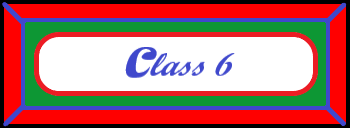
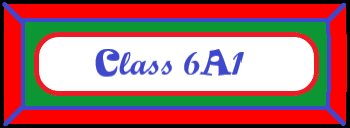
sua loi va 1 so thu

Changed region(s): [[0.2571, 0.3438, 0.7143, 0.625], [0.8286, 0.25, 0.9143, 0.7188]]

diff --git a/core/src/main/java/spst/com/Screen/Master.java b/core/src/main/java/spst/com/Screen/Master.java
@@ -1359,6 +1359,10 @@ public class Master implements Screen {
                     }
                     if(actorBlock instanceof MordernDoor
                         || actorBlock instanceof Restaurant
+                        || actorBlock instanceof School
+                        || actorBlock instanceof Bank
+                        || actorBlock instanceof NguoiDonRac
+                        || actorBlock instanceof NguoiTrongCay
                         || actorBlock instanceof ScienceCenter
                         || actorBlock instanceof FactoryCenter
                         || actorBlock instanceof HotelCenter
@@ -2092,14 +2096,9 @@ public class Master implements Screen {
         racTroiSong();
         tinhThangThua();
         batTatNutMoVaXuLyTrongNutMo();
-        Timer.schedule(new Timer.Task() {
-            @Override
-            public void run() {
-                if(whatActionIfClickMouse.equals("DatSan")){
-                    taoMoDatKhoi();
-                }
-            }
-        },0);
+        if(whatActionIfClickMouse.equals("DatSan")){
+            taoMoDatKhoi();
+        }
         OrthographicCamera c = (OrthographicCamera) stage.getViewport().getCamera();
         if(c.zoom == 1f) {
             if ((float) Gdx.graphics.getWidth() / 2 - player.getWidth() / 2 <= player.getX() && player.getX() <= (float) (WINDOW_WIDTH - Gdx.graphics.getWidth() / 2) - player.getWidth() / 2) {
@@ -2364,15 +2363,19 @@ public class Master implements Screen {
                 if(isCanDao){
                     //BuyDirt a = new BuyDirt(x, y,stage);
                     //a.setZIndex(stage.hit(x, y, true).getZIndex()+1);
+                    MyActor myActor = (MyActor) stage.hit(x,y,true);
                     try {
-                        MyActor myActor = (MyActor) stage.hit(x,y,true);
                         roadArray.removeValue(myActor.getBound(),true);
-                        reArray.removeValue(myActor,true);
+                        roads.removeValue(myActor,true);
                         myActor.remove();
                         if(nhiemvu3== 2){
                             nhiemvu3= 77;
                             GameState.money += 200;
                         }
+                    }catch (Exception ignored){
+                    }
+                    try {
+                        reArray.removeValue(myActor,true);
                     }catch (Exception ignored){
                     }
                     MDirt.setPosition(-32456,-3456889);
@@ -2682,6 +2685,12 @@ public class Master implements Screen {
         chu3.toFront();
         stage.draw();
 //        for(Waste a : wastes){
+//            shapeRenderer.begin(ShapeRenderer.ShapeType.Line);
+//            shapeRenderer.setColor(Color.RED);
+//            shapeRenderer.rect(a.getBound().getX()-(stage.getCamera().position.x-Gdx.graphics.getWidth()/2f), a.getBound().getY()-(stage.getCamera().position.y-Gdx.graphics.getHeight()/2f), a.getBound().getWidth(), a.getBound().getHeight());
+//            shapeRenderer.end();
+//        }
+//        for(MyActor a : roads){
 //            shapeRenderer.begin(ShapeRenderer.ShapeType.Line);
 //            shapeRenderer.setColor(Color.RED);
 //            shapeRenderer.rect(a.getBound().getX()-(stage.getCamera().position.x-Gdx.graphics.getWidth()/2f), a.getBound().getY()-(stage.getCamera().position.y-Gdx.graphics.getHeight()/2f), a.getBound().getWidth(), a.getBound().getHeight());
@@ -3759,18 +3768,15 @@ public class Master implements Screen {
 
         for (int i = -1; i < 38; i++) {
             RoadWay roadWayV = new RoadWay(i * 32, 800 / 2f - 48, stage, true);
-            roads.add(roadWayV);
             createCrossWalk(i, i * 32, 800 / 2f - 48, true);
             if (i == 9) {
                 for (int j = -1; j < 31; j++) {
                     RoadWay roadWay = new RoadWay(i * 32, 800 / 2f - 48 - (j + 2) * 32, stage, false);
-                    roads.add(roadWay);
                     createCrossWalk(j, i * 32, 800 / 2f - 48 - (j + 2) * 32, false);
                 }
             } else if (i == 21) {
                 for (int j = -1; j < 31; j++) {
                     RoadWay roadWay = new RoadWay(i * 32, 800 / 2f + 48 + (j + 1) * 32, stage, false);
-                    roads.add(roadWay);
                     createCrossWalk(j, i * 32, 800 / 2f + 48 + (j + 1) * 32, false);
                 }
             }
@@ -3794,23 +3800,14 @@ public class Master implements Screen {
         Corner corner = new Corner(21 * 32, 800 / 2f + 48 - 32, stage, "DR");
         BlankRoad blankRoad = new BlankRoad(21 * 32 + 32, 800 / 2f + 48 - 32, stage);
         Corner corner12 = new Corner(21 * 32 + 32 * 2, 800 / 2f + 48 - 32, stage, "DL");
-        roads.add(corner);
-        roads.add(blankRoad);
-        roads.add(corner12);
 
         Corner corner2 = new Corner(9 * 32, 800 / 2f - 48 - 0, stage, "UR");
         BlankRoad blankRoad2 = new BlankRoad(9 * 32 + 32, 800 / 2f - 48 - 0, stage);
         Corner corner22 = new Corner(9 * 32 + 32 * 2, 800 / 2f - 48 - 0, stage, "UL");
-        roads.add(corner2);
-        roads.add(blankRoad2);
-        roads.add(corner22);
 
         Corner corner3 = new Corner(25 * 32, 800 / 2f - 48 - 0, stage, "UR");
         BlankRoad blankRoad3 = new BlankRoad(25 * 32 + 32, 800 / 2f - 48 - 0, stage);
         Corner corner32 = new Corner(25 * 32 + 32 * 2, 800 / 2f - 48 - 0, stage, "UL");
-        roads.add(corner3);
-        roads.add(blankRoad3);
-        roads.add(corner32);
 
 //        CornerPool cornerPool = new CornerPool(32*5, 800 - 32 * 3, stage, "UL");
 //        CornerPool cornerPool2 = new CornerPool(32 * 15, 800 - 32 * 3, stage, "UR");
@@ -4183,7 +4180,7 @@ public class Master implements Screen {
                 MCanhRoad.toFront();
                 thongTinDatCanhRoad=thongTinMode;
                 if(Gdx.input.isKeyJustPressed(Input.Keys.R)){
-                    MCanhRoad.setRotation(MCanhRoad.getRotation()+90);
+                    MCanhRoad.rotateBy(90);
                 }
             }
             case ViaHe -> {
@@ -4436,7 +4433,6 @@ public class Master implements Screen {
     private void createCrossWalk(int e, float x, float y, boolean isHorizontal) {
         if (e % 6 == 0) {
             CrossWalk crossWalk = new CrossWalk(x, y, stage, isHorizontal);
-            roads.add(crossWalk);
         }
     }
 
@@ -4819,7 +4815,6 @@ public class Master implements Screen {
 
     @Override
     public void dispose() {
-        nen.stop();
         batch.dispose();
     }
 }

diff --git a/core/src/main/java/spst/com/Screen/SchoolScreen.java b/core/src/main/java/spst/com/Screen/SchoolScreen.java
@@ -408,6 +408,41 @@ public class SchoolScreen implements Screen {
                     layout4.setText(game.font3, "Viêm họng");
                     layout5.setText(game.font3, "Bệnh tim mạch");
                     cauTraLoiDung = 'b';
+                } case 16 -> {
+                    layout.setText(game.font3, "Trong không khí ô nhiễm, tỉ lệ khí CO₂ tăng từ 0,04% lên 0,4%. So với mức bình thường, CO₂ đã tăng:");
+                    layout2.setText(game.font3, "1 lần");
+                    layout3.setText(game.font3, "5 lần");
+                    layout4.setText(game.font3, "10 lần");
+                    layout5.setText(game.font3, "100 lần");
+                    cauTraLoiDung = 'c';
+                } case 17 -> {
+                    layout.setText(game.font3, "Khi ánh sáng mặt trời mạnh, phản ứng tạo ozon mặt đất xảy ra nhiều hơn vì:");
+                    layout2.setText(game.font3, "Ánh sáng phân hủy CO₂");
+                    layout3.setText(game.font3, "Ánh sáng kích hoạt NO₂ tạo O");
+                    layout4.setText(game.font3, "O₂ chuyển hóa thành O₃ trực tiếp");
+                    layout5.setText(game.font3, "Bụi phản ứng với ánh sáng");
+                    cauTraLoiDung = 'b';
+                } case 18 -> {
+                    layout.setText(game.font3, "Khi không khí bị nghịch nhiệt, lớp không khí lạnh nằm ở:");
+                    layout2.setText(game.font3, "Trên cao, giữ khí nóng ở dưới");
+                    layout3.setText(game.font3, "Dưới thấp, giữ khí nóng ở trên");
+                    layout4.setText(game.font3, "Giữa 2 lớp mây");
+                    layout5.setText(game.font3, "Giữa các lớp ozon");
+                    cauTraLoiDung = 'b';
+                } case 19 -> {
+                    layout.setText(game.font3, "Phản ứng tạo ozon (O₃) ở tầng mặt đất là phản ứng:");
+                    layout2.setText(game.font3, "Trung hòa");
+                    layout3.setText(game.font3, "Phản ứng oxi hóa quang hóa");
+                    layout4.setText(game.font3, "Phản ứng nhiệt phân");
+                    layout5.setText(game.font3, "Phản ứng trao đổi ion");
+                    cauTraLoiDung = 'b';
+                } case 20 -> {
+                    layout.setText(game.font3, "Hiện tượng nào sau đây là kết quả của ô nhiễm không khí và khí thải SO₂");
+                    layout2.setText(game.font3, "Mưa axit");
+                    layout3.setText(game.font3, "Sương muối");
+                    layout4.setText(game.font3, "Cát bụi đỏ");
+                    layout5.setText(game.font3, "Cực quang");
+                    cauTraLoiDung = 'a';
                 }
             }
         }else{
@@ -530,6 +565,41 @@ public class SchoolScreen implements Screen {
                     layout4.setText(game.font3, "Sự dư thừa chất dinh dưỡng (N và P) từ phân bón, nước thải");
                     layout5.setText(game.font3, "Sự thay đổi mực nước tự nhiên do băng tan");
                     cauTraLoiDung = 'b';
+                } case 16 -> {
+                    layout.setText(game.font3, "Để giảm NO₂ từ khí thải xe, người ta sử dụng chất xúc tác chứa:");
+                    layout2.setText(game.font3, "Sự tăng lượng khí CO₂ trong không khí");
+                    layout3.setText(game.font3, "Sự tích tụ chất thải rắn từ công nghiệp");
+                    layout4.setText(game.font3, "Sự dư thừa chất dinh dưỡng (N và P) từ phân bón, nước thải");
+                    layout5.setText(game.font3, "Sự thay đổi mực nước tự nhiên do băng tan");
+                    cauTraLoiDung = 'b';
+                } case 17 -> {
+                    layout.setText(game.font3, "Trong các khí gồm CO, NO₂ và SO, nào có thể gây mưa axit khi phản ứng với nước?");
+                    layout2.setText(game.font3, "CO");
+                    layout3.setText(game.font3, "NO₂ và SO₂");
+                    layout4.setText(game.font3, "CO và NO₂");
+                    layout5.setText(game.font3, "Chỉ NO₂");
+                    cauTraLoiDung = 'b';
+                } case 18 -> {
+                    layout.setText(game.font3, "Vì sao khí CO rất nguy hiểm dù không có mùi và không màu?");
+                    layout2.setText(game.font3, "Nó làm máu đông");
+                    layout3.setText(game.font3, "Nó làm giảm oxy máu bằng cách gắn vào hemoglobin");
+                    layout4.setText(game.font3, "Nó phá hủy phổi");
+                    layout5.setText(game.font3, "Nó gây đau đầu ngay khi hít");
+                    cauTraLoiDung = 'b';
+                } case 19 -> {
+                    layout.setText(game.font3, "Chất nào sau đây không gây mưa axit dù có trong không khí ô nhiễm?");
+                    layout2.setText(game.font3, "SO₂");
+                    layout3.setText(game.font3, "NO₂");
+                    layout4.setText(game.font3, "CO");
+                    layout5.setText(game.font3, "NH₃");
+                    cauTraLoiDung = 'c';
+                } case 20 -> {
+                    layout.setText(game.font3, "Ở những nơi có khí thải từ đốt rác, khí nào nguy hiểm nhưng khó phát hiện nhất?");
+                    layout2.setText(game.font3, "SO₂");
+                    layout3.setText(game.font3, "CO₂");
+                    layout4.setText(game.font3, "Dioxin");
+                    layout5.setText(game.font3, "H₂O");
+                    cauTraLoiDung = 'c';
                 }
             }
         }

diff --git a/core/src/main/java/spst/com/Sign.java b/core/src/main/java/spst/com/Sign.java
@@ -37,17 +37,17 @@ public class Sign extends MyActor {
     public void act(float delta) {
         super.act(delta);
         time++;
-        if(time % 60 == 0 && GameState.money >= 2){
-            GameState.money-=2;
+        if(time % 60 == 0 && GameState.money >= 4){
+            GameState.money-=4;
         }
-        if(GameState.money >= 2) {
-            if (GameState.PM2_5 >= 4 / 60f) {
-                GameState.PM2_5 -= 4 / 60f;
+        if(GameState.money >= 4) {
+            if (GameState.PM2_5 >= 6 / 60f) {
+                GameState.PM2_5 -= 6 / 60f;
             } else {
                 GameState.PM2_5 = 0;
             }
-            if (GameState.SO2 >= 2 / 60f) {
-                GameState.SO2 -= 2 / 60f;
+            if (GameState.SO2 >= 4 / 60f) {
+                GameState.SO2 -= 4 / 60f;
             } else {
                 GameState.SO2 = 0;
             }

diff --git a/core/src/main/java/spst/com/Screen/MenuScreen.java b/core/src/main/java/spst/com/Screen/MenuScreen.java
@@ -48,7 +48,9 @@ public class MenuScreen implements Screen  {
         startButton.setPosition(Gdx.graphics.getWidth()/2f-startButton.getWidth()/2f, 400); ;
         startButton.addListener(new ClickListener(){
             public void clicked(InputEvent event, float x, float y){
-                game.setScreen(new SchoolScreen(game));
+//                try{
+//                    Master.player
+//                }catch (Exception ignored){}
                 game.setScreen(game.master);
             }
         });
@@ -111,6 +113,7 @@ public class MenuScreen implements Screen  {
 
         Gdx.input.setInputProcessor(stage);
 
+        Master.nen.stop();
         nen.isLooping();
         nen.setVolume(0.1f);
         nen.play();

diff --git a/core/src/main/java/spst/com/People/People.java b/core/src/main/java/spst/com/People/People.java
@@ -282,7 +282,7 @@ public class People extends MyActor {
             if(!Master.isNgayTrongCay) {
                 time += delta;
                 timeDirection++;
-                if (timeDirection % 300 == 0 && !isCutting && !isFiringWaste && !isFiringSign && !isDangerous) {
+                if (timeDirection % 300 == 0 && !isCutting && !isFiringWaste && !isFiringSign && !isDangerous&& !isJogging && !isDoTrash) {
                     randomAction = MathUtils.random(0, 101);
                     if (randomAction < 40) {
                         isJogging = true;

diff --git a/core/src/main/java/spst/com/Roads/Car.java b/core/src/main/java/spst/com/Roads/Car.java
@@ -72,8 +72,8 @@ public class Car extends MyActor {
     }
     private void Move(){
         boolean isOnRoad = false;
-        for(Rectangle rec : Master.roadArray){
-            if(getBoundCar().overlaps(rec)){
+        for(MyActor myActor : Master.roads){
+            if(getBoundCar().overlaps(myActor.getBound())){
                 isOnRoad = true;
             }
         }

diff --git a/core/src/main/java/spst/com/Roads/Tree.java b/core/src/main/java/spst/com/Roads/Tree.java
@@ -25,6 +25,9 @@ public class Tree extends MyActor {
         }else {
             type = TypeTree.Classic;
         }
+        if(Gdx.input.isKeyPressed(Input.Keys.Q)){
+            type = TypeTree.Super;
+        }
         if(type == TypeTree.Super){
             textureRegion = new TextureRegion(new Texture("supertree.png"));
             setSize(64, 64);

diff --git a/core/src/main/java/spst/com/Roads/CrossRoad/BlankRoad.java b/core/src/main/java/spst/com/Roads/CrossRoad/BlankRoad.java
@@ -11,5 +11,6 @@ public class BlankRoad extends MyActor {
         textureRegion = Utils.getRegion(9*16, 17*16, 16, 16);
         setSize(textureRegion.getRegionWidth() * 2, textureRegion.getRegionHeight() * 2);
         Master.roadArray.add(getBound());
+        Master.roads.add(this);
     }
 }

diff --git a/core/src/main/java/spst/com/Parking/RoundCorner.java b/core/src/main/java/spst/com/Parking/RoundCorner.java
@@ -17,5 +17,6 @@ public class RoundCorner extends MyActor {
         setSize(textureRegion.getRegionWidth()*2,textureRegion.getRegionHeight()*2);
         Master.noPlaced.add(this.getBound());
         Master.roadArray.add(getBound());
+        Master.roads.add(this);
     }
 }

diff --git a/core/src/main/java/spst/com/Parking/RoadPiece.java b/core/src/main/java/spst/com/Parking/RoadPiece.java
@@ -17,5 +17,6 @@ public class RoadPiece extends MyActor {
         setSize(textureRegion.getRegionWidth()*2,textureRegion.getRegionHeight()*2);
         Master.noPlaced.add(this.getBound());
         Master.roadArray.add(getBound());
+        Master.roads.add(this);
     }
 }

diff --git a/core/src/main/java/spst/com/Parking/LetterP.java b/core/src/main/java/spst/com/Parking/LetterP.java
@@ -12,5 +12,6 @@ public class LetterP extends MyActor {
         setSize(textureRegion.getRegionWidth()*2,textureRegion.getRegionHeight()*2);
         Master.noPlaced.add(this.getBound());
         Master.roadArray.add(getBound());
+        Master.roads.add(this);
     }
 }

diff --git a/core/src/main/java/spst/com/InFactory/BuyRoad.java b/core/src/main/java/spst/com/InFactory/BuyRoad.java
@@ -19,6 +19,7 @@ public class BuyRoad extends MyActor {
         textureRegion2 = Utils.getRegion(16,16*16,16,16);
         textureRegion3 = Utils.getRegion(16,16*15,16,16);
         Master.roadArray.add(getBound());
+        Master.roads.add(this);
     }
 
     @Override
